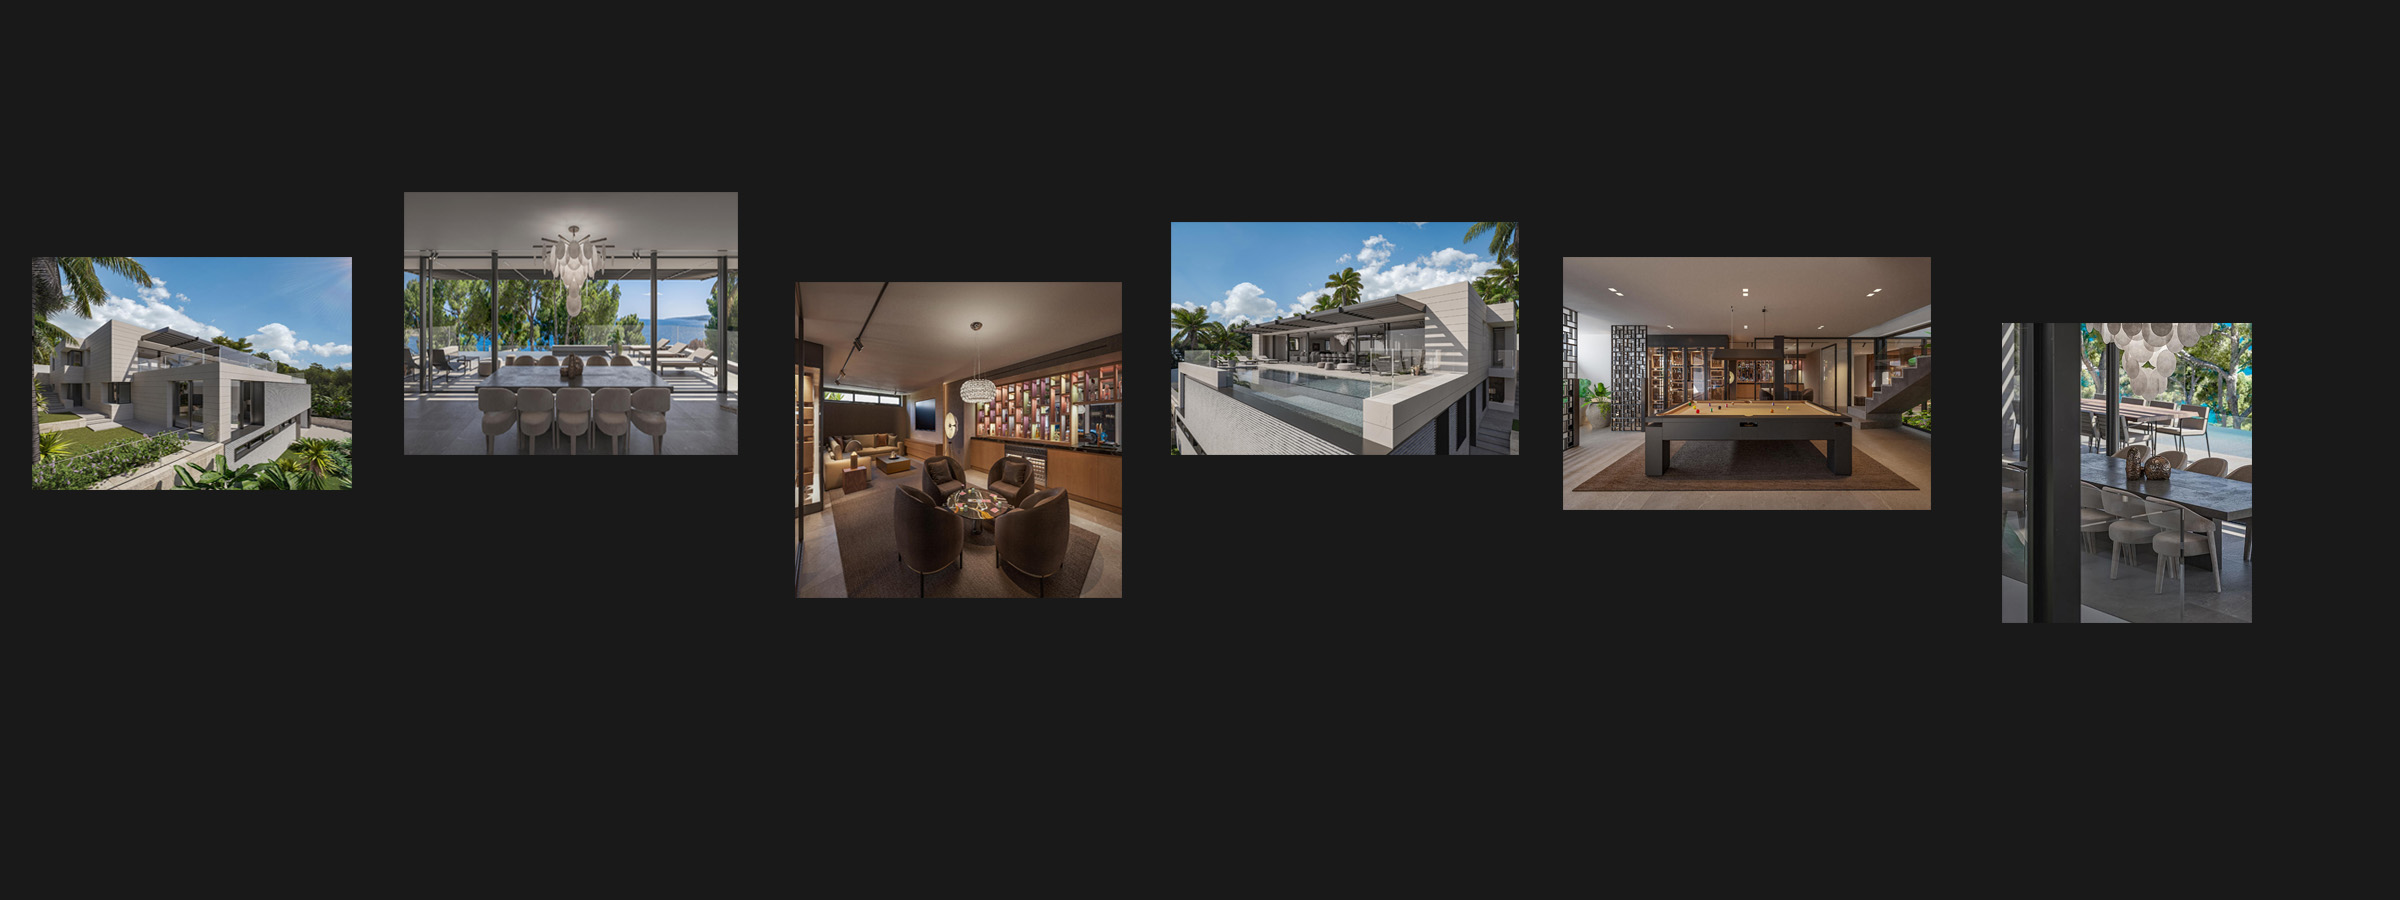
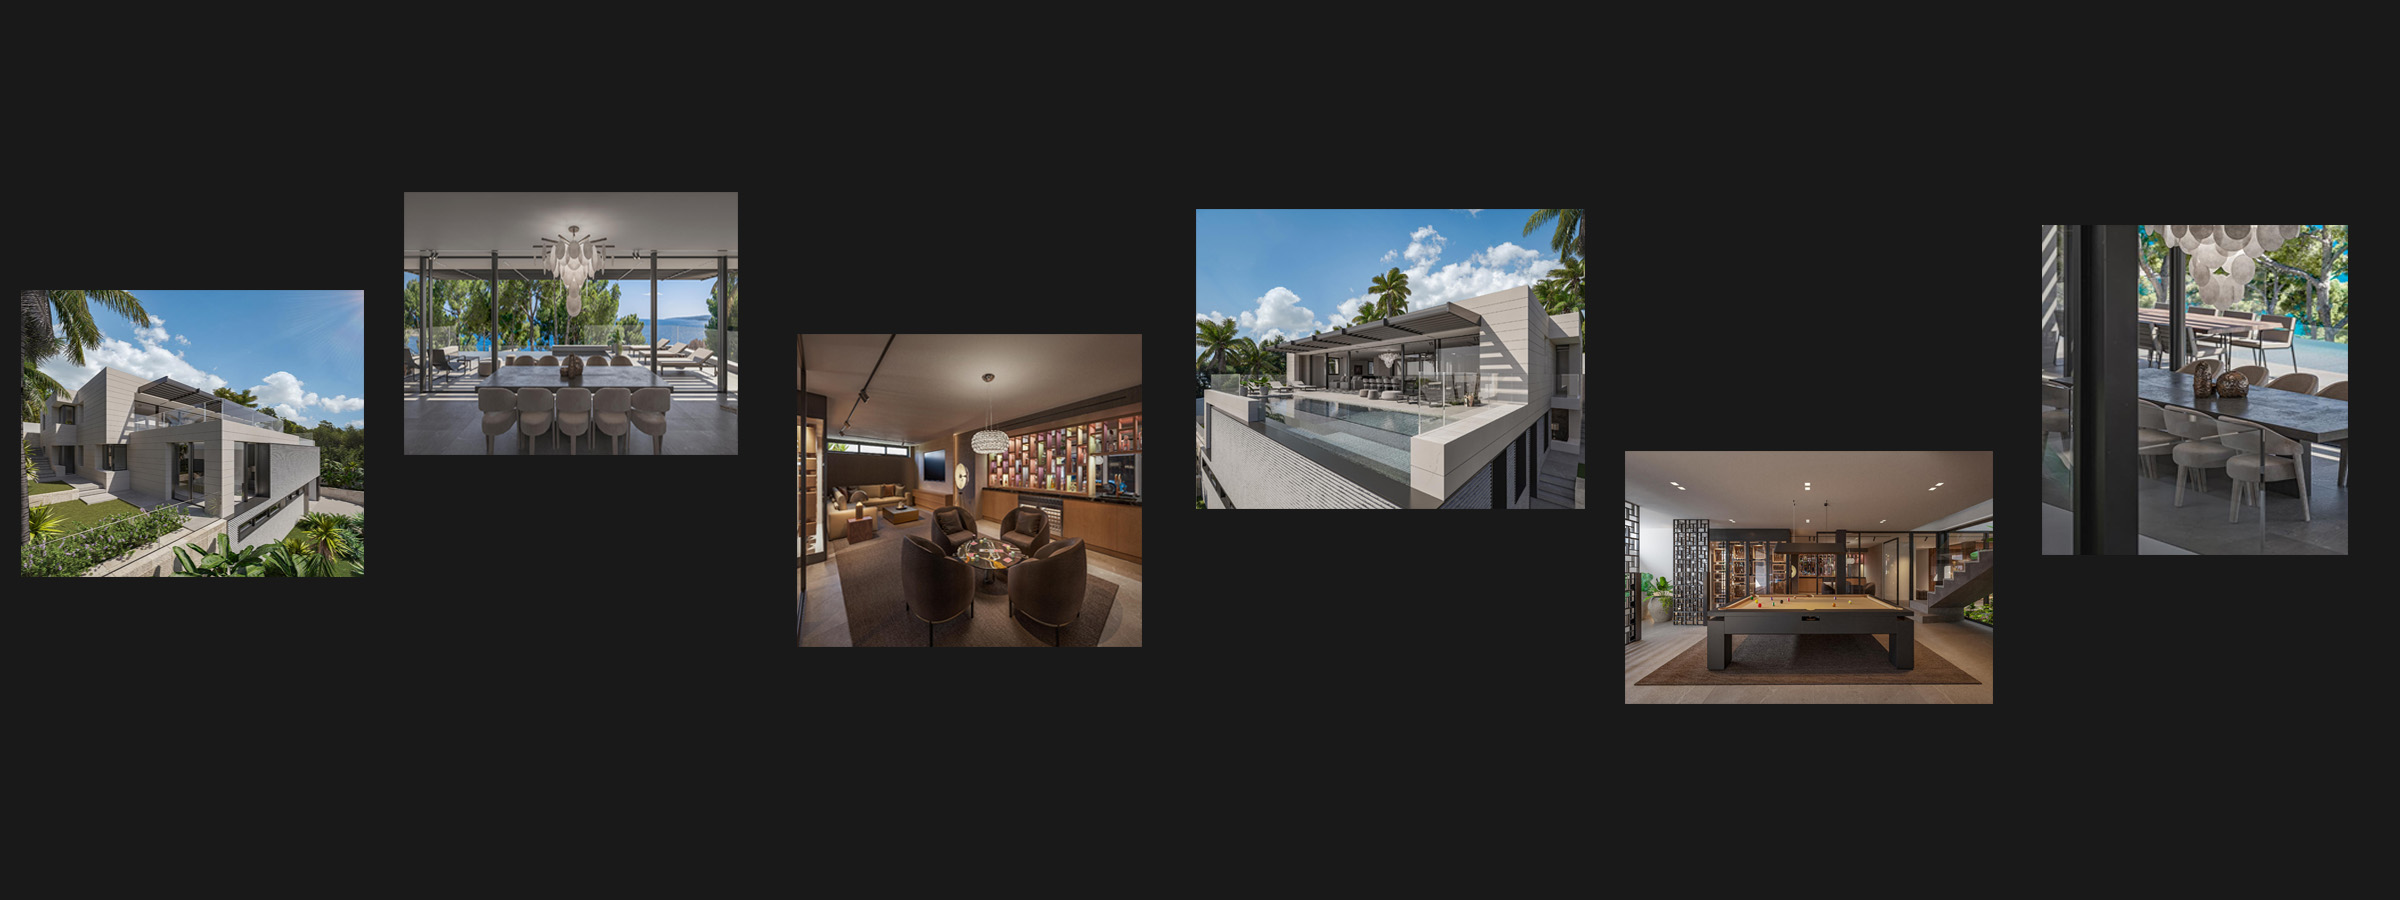
dd

Changed region(s): [[0.3125, 0.2178, 1.0, 0.8089], [0.0, 0.28, 0.1562, 0.6533]]

diff --git a/src/pages/Villa.tsx b/src/pages/Villa.tsx
@@ -46,32 +46,71 @@ function VillaContent () {
         </div>
       </div>
       <div className="house_content2" style={{
-          backgroundPositionY: position / 5,
+          backgroundPositionY: position / 6,
         }}>
         <img src='https://irisiris99.github.io/blanc/imgs/Villaimg2.jpg' />
       </div>
+      <div className="metro" style={{
+          backgroundPositionX: position / -3,
+        }}>
+        <h1>Metropolitan</h1>
+        <h1> luxury house.</h1>
+      </div>
+      <div className="full_back" style={{
+          backgroundPositionY: position / 4.3,
+        }}>
+
+      </div>
+      <div className="full_back_font">
+        <p>Few windows seen from the street because of the impact of the swimming pool in the whole house’s layout. This particular programmatic need is one of the starting points of architectural concept of the house, keeping like this all the mystery of what is happening inside.</p>
+      </div>
+      <div className="full_back2" style={{
+          backgroundPositionY: position / 2,
+        }}>
+
+      </div>
       <div className="rooms">
         <div>
-          <p>Entertainment</p>
-          <img src='https://irisiris99.github.io/blanc/imgs/room1.jpg' />
+          <div>
+            <p>Entertainment</p>
+          </div>
+          <div className="hidden_box">
+            <img src='https://irisiris99.github.io/blanc/imgs/room1.jpg' />
+          </div>
         </div>
         <div>
-          <p>Kitchen</p>
-          <img src='https://irisiris99.github.io/blanc/imgs/room2.jpg' />
+          <div>
+            <p>Kitchen</p>
+          </div>
+          <div className="hidden_box">
+            <img src='https://irisiris99.github.io/blanc/imgs/room2.jpg' />
+          </div>
         </div>
         <div>
-          <p>Bed Room</p>
-          <img src='https://irisiris99.github.io/blanc/imgs/room3.jpg' />
+          <div>
+            <p>Bed Room</p>
+          </div>
+          <div className="hidden_box">
+            <img src='https://irisiris99.github.io/blanc/imgs/room3.jpg' />
+          </div>
         </div>
       </div>
       <div className="rooms2">
         <div>
-          <p>Fitness Room</p>
-          <img src='https://irisiris99.github.io/blanc/imgs/room4.jpg' />
+          <div>
+            <p>Fitness Room</p>
+          </div>
+          <div className="hidden_box">
+            <img src='https://irisiris99.github.io/blanc/imgs/room4.jpg' />
+          </div>
         </div>
         <div>
-          <p>Dress Room</p>
-          <img src='https://irisiris99.github.io/blanc/imgs/room5.jpg' />
+          <div>
+            <p>Dress Room</p>
+          </div>
+          <div className="hidden_box">
+            <img src='https://irisiris99.github.io/blanc/imgs/room5.jpg' />
+          </div>
         </div>
       </div>
     </div>

diff --git a/src/App.css b/src/App.css
@@ -183,7 +183,7 @@ img.infinite_rotating_logo {
   transition: 0.3s ease-in-out;
 }
 .Villa .sublist p:hover {
-  color: yellow;
+  color: sandybrown;
 }
 
 .Villa .house_content {
@@ -198,6 +198,7 @@ img.infinite_rotating_logo {
   width: 100%;
   background: url("https://irisiris99.github.io/blanc/imgs/Villaimg1.jpg")
     no-repeat;
+  background-size: contain;
   margin-right: 5%;
 }
 .Villaimg img {
@@ -231,11 +232,51 @@ img.infinite_rotating_logo {
   overflow: hidden;
   background: url("https://irisiris99.github.io/blanc/imgs/Villaimg2.jpg")
     no-repeat;
+  background-size: 80%;
 }
 
 .house_content2 img {
   width: 70%;
   visibility: hidden;
+}
+
+.metro {
+  width: 100%;
+  text-align: center;
+  background-image: url("../public/imgs/background_3.jpg");
+  background-position: center;
+  padding: 10% 0%;
+}
+.metro h1 {
+  font-size: 100px;
+  padding: 6% 0%;
+}
+.full_back {
+  width: 100%;
+  height: 1px;
+  background-image: url("../public/imgs/background_4.jpg");
+  background-position: center;
+  background-size: contain;
+  padding: 25% 0%;
+}
+.full_back_font {
+  width: 100%;
+  padding: 5% 0%;
+  position: relative;
+  left: 30%;
+}
+.full_back_font p {
+  font-size: 20px;
+  width: 40%;
+}
+.full_back2 {
+  width: 100%;
+  height: 1030px;
+  position: relative;
+  left: 30%;
+  background-image: url("../public/imgs/background_5.jpg");
+  background-position: center;
+  background-size: cover;
 }
 
 .rooms {
@@ -246,7 +287,20 @@ img.infinite_rotating_logo {
 }
 
 .rooms div {
-  width: 25%;
+  padding: 0% 3%;
+}
+.rooms div .hidden_box {
+  width: 100%;
+  padding: 0;
+  overflow: hidden;
+}
+
+.rooms div div img {
+  width: 100%;
+  transition: 0.2s;
+}
+.rooms div div img:hover {
+  transform: scale(1.08);
 }
 
 .rooms div p {
@@ -259,6 +313,19 @@ img.infinite_rotating_logo {
   display: flex;
   justify-content: space-between;
   padding: 3% 2%;
+}
+
+.rooms2 div .hidden_box {
+  width: 100%;
+  padding: 0;
+  overflow: hidden;
+}
+.rooms2 div div img {
+  width: 100%;
+  transition: 0.2s;
+}
+.rooms2 div div img:hover {
+  transform: scale(1.08);
 }
 
 .rooms2 div p {
